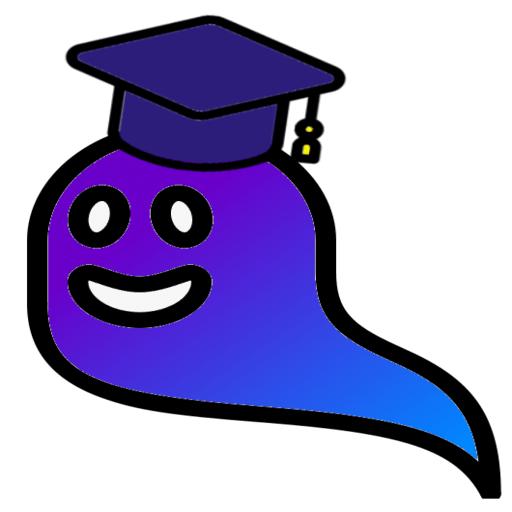
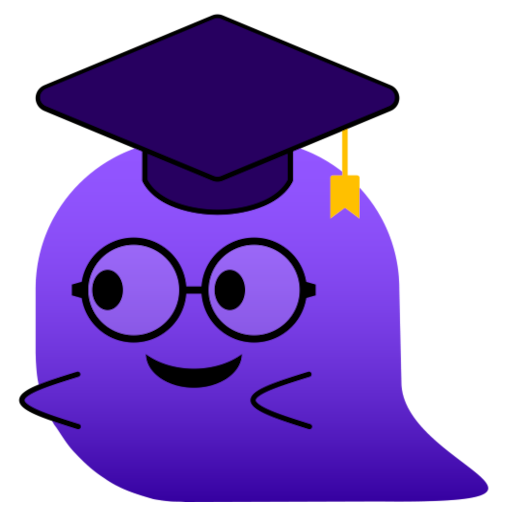
Update readme

diff --git a/README.md b/README.md
@@ -13,6 +13,9 @@
 <a href="https://play.google.com/store/apps/details?id=app.wispar.wispar" target="_blank">
   <img src="https://upload.wikimedia.org/wikipedia/commons/7/78/Google_Play_Store_badge_EN.svg" alt="Get it on Google Play" height="50"/>
 </a>
+<a href="https://apps.apple.com/us/app/wispar/id6741366984" target="_blank">
+  <img src="https://developer.apple.com/assets/elements/badges/download-on-the-app-store.svg" alt="Download on the App Store"height="50">
+</a>
 </br></br>
 <a href='https://ko-fi.com/A0A6ME7SJ' target='_blank'><img height='36' style='border:0px;height:36px;' src='https://storage.ko-fi.com/cdn/kofi5.png?v=6' border='0' alt='Buy Me a Coffee at ko-fi.com' /></a>
 </p>
@@ -23,18 +26,6 @@
 <p align="justify">
 Wispar is a user-friendly and privacy-friendly Android/iOS app that seamlessly searches scientific journals and articles using the Crossref API. Stay updated on your preferred journals by following them and receive new article abstracts in your main feed. No account required. The integration of Unpaywall ensures convenient access to open-access articles, while EZproxy helps overcome subscription barriers.  
 </p>
-
-## Screenshots
-
-
-| Home screen (light)                                       | Search screen (light)                                | Journals screen(dark)                                          |
-|---------------------------------------------------|------------------------------------------------------|---------------------------------------------------------|
-| ![Feed](screenshots/light_ios_feed.png)            | ![Search](screenshots/light_ios_search_screen.png)   | ![Journals](screenshots/dark_ios_library_journals.png)  |
-
-| Queries screen (dark)                              | Journal latest works (dark)                               | Abstract (dark)                                          |
-|---------------------------------------------------|------------------------------------------------------|---------------------------------------------------------|
-| ![Query](screenshots/dark_ios_library_queries.png) | ![JournalDetails](screenshots/dark_ios_journal_details.png) | ![Abstract](screenshots/dark_android_abstract.png)      |
-
 
 ## Features overview
 <ul>
@@ -85,14 +76,16 @@ If you run into any issue while using Wispar, have a question or want to share y
 
 ## Credits
 <ul>
+    <li>Thank you<a href="https://github.com/reds2401" target='_blank'> Sergio </a>for the app icon!</li>
     <li><a href="https://libproxy-db.org/" target='_blank'>Library Proxy URL Database</a></li>
     <li><a href="https://unpaywall.org/" target='_blank'>Unpaywall</a></li>
     <li><a href="https://www.crossref.org/" target='_blank'>Crossref</a></li>
 </ul>
 
-## FAQ
- <b>Q</b>: The journal subjects are missing or are incorrect</br>
-<b>A</b>: This is a problem with the Crossref API that originates from Scopus. The subjects metadata from Crossref may be removed in the future though according to this <a href="https://community.crossref.org/t/retrieve-subjects-and-subject-from-journals-and-works/2403/6" target="_blank">thread</a>. 
+## Screenshots
 
-<b>Q</b>: My institution's EZproxy URL is missing or is incorrect</br>
-<b>A</b>: If you can view the list of proxies correctly in the app but notice that your institution is missing or has an incorrect URL, please report the issue to the EZproxy-db by opening a new <a href="https://github.com/tom5760/ezproxy-db/issues/new/choose" target="_blank">issue</a> in their repository. Otherwise, please open a new issue in Wispar's repository. 
+
+
+| ![Feed](android/fastlane/metadata/android/en-US/images/phoneScreenshots/1_en-US.png) | ![Abstract](android/fastlane/metadata/android/en-US/images/phoneScreenshots/2_en-US.png) | ![Search](android/fastlane/metadata/android/en-US/images/phoneScreenshots/3_en-US.png) |
+|---|---|---|
+| ![Journal latest publications](android/fastlane/metadata/android/en-US/images/phoneScreenshots/4_en-US.png) | ![JournalDetails](android/fastlane/metadata/android/en-US/images/phoneScreenshots/6_en-US.png) | ![Settings](android/fastlane/metadata/android/en-US/images/phoneScreenshots/7_en-US.png) |
